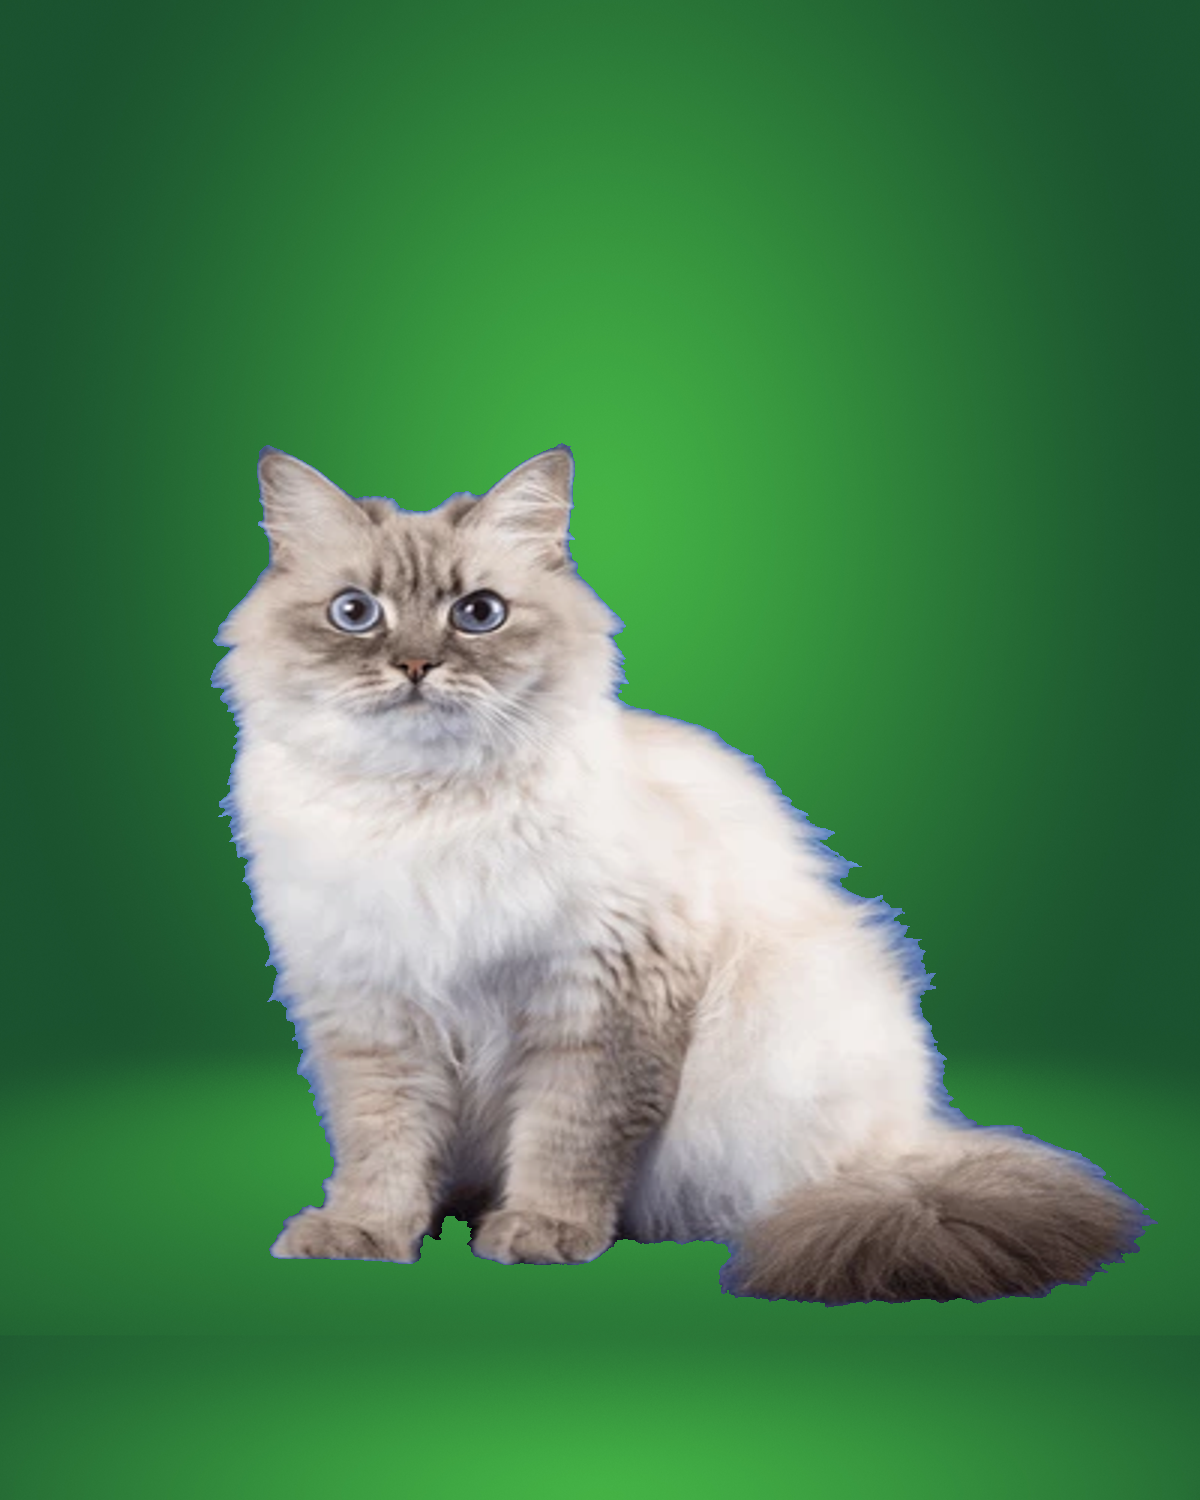
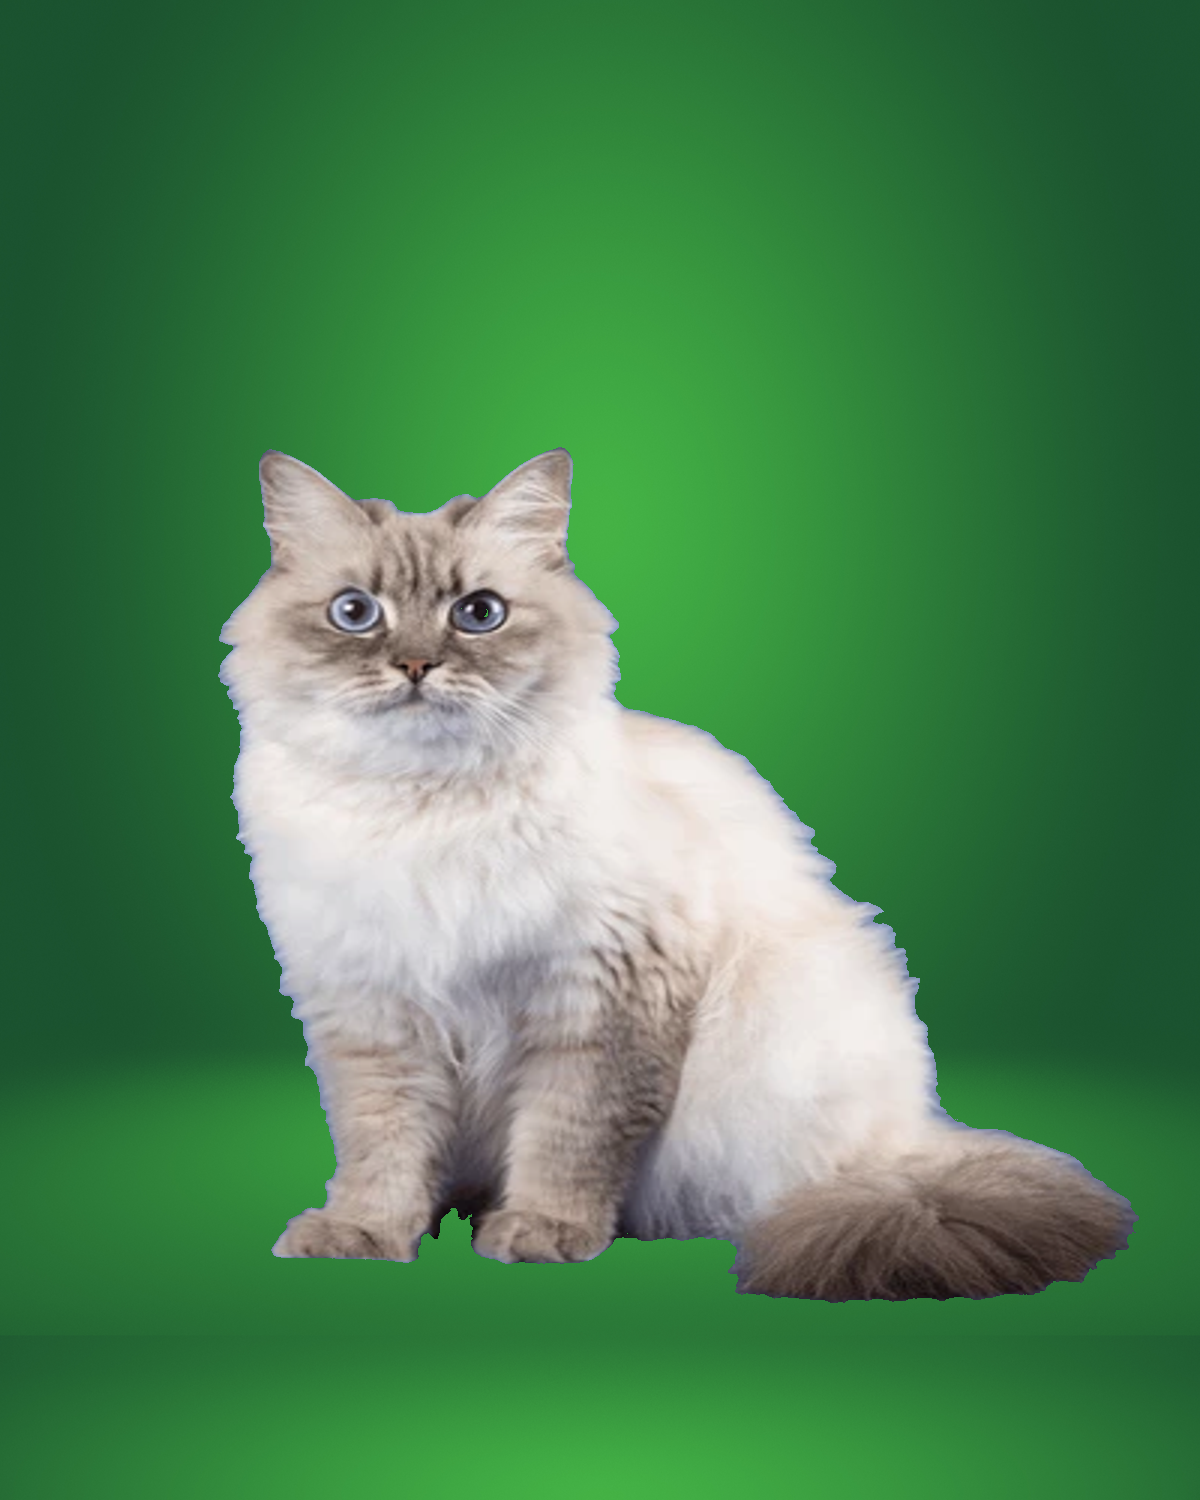
initensity threshold update

diff --git a/mini-project1/module1/bluescreen.py b/mini-project1/module1/bluescreen.py
@@ -12,7 +12,7 @@ from simpleimage import SimpleImage
 from PIL import Image
 
 
-INTENSITY_THRESHOLD = 1.4
+INTENSITY_THRESHOLD = 1.2
 
 
 def bluescreen(main_filename, back_filename):
